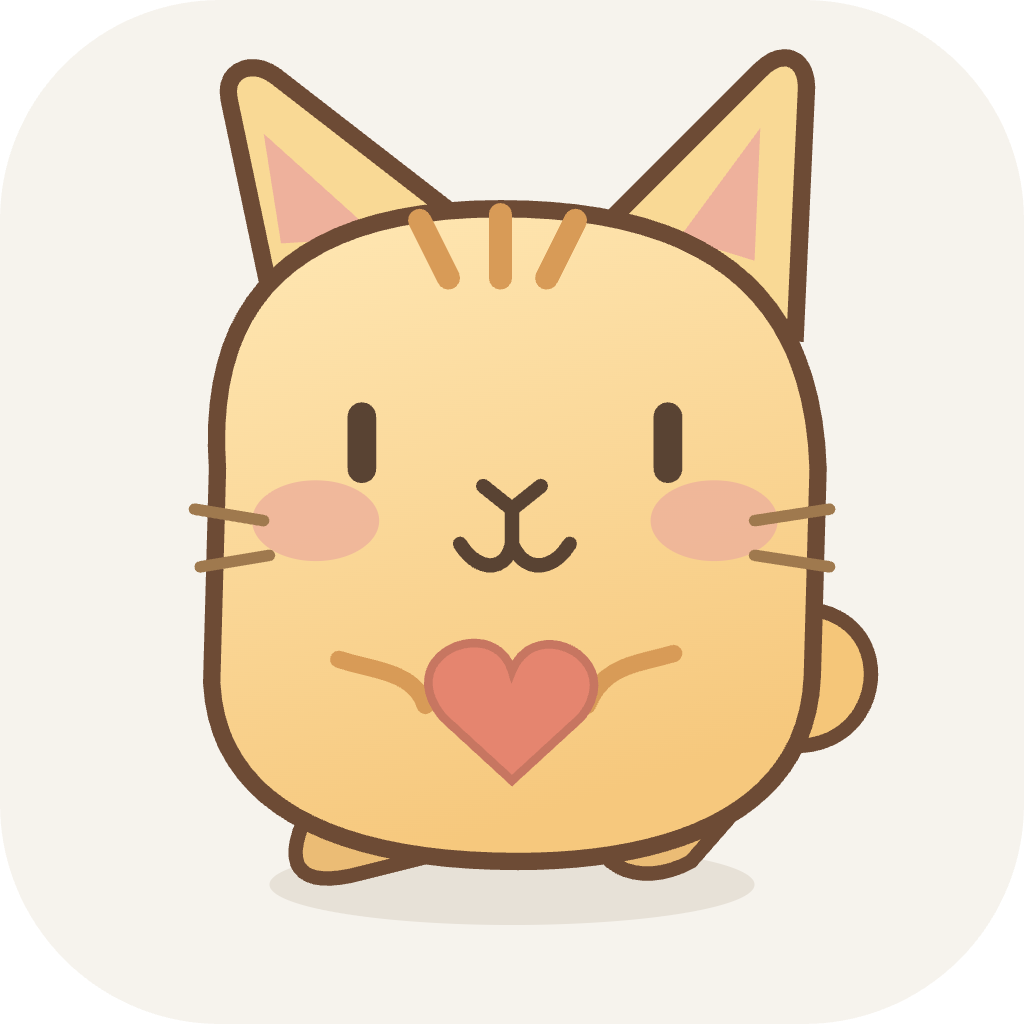
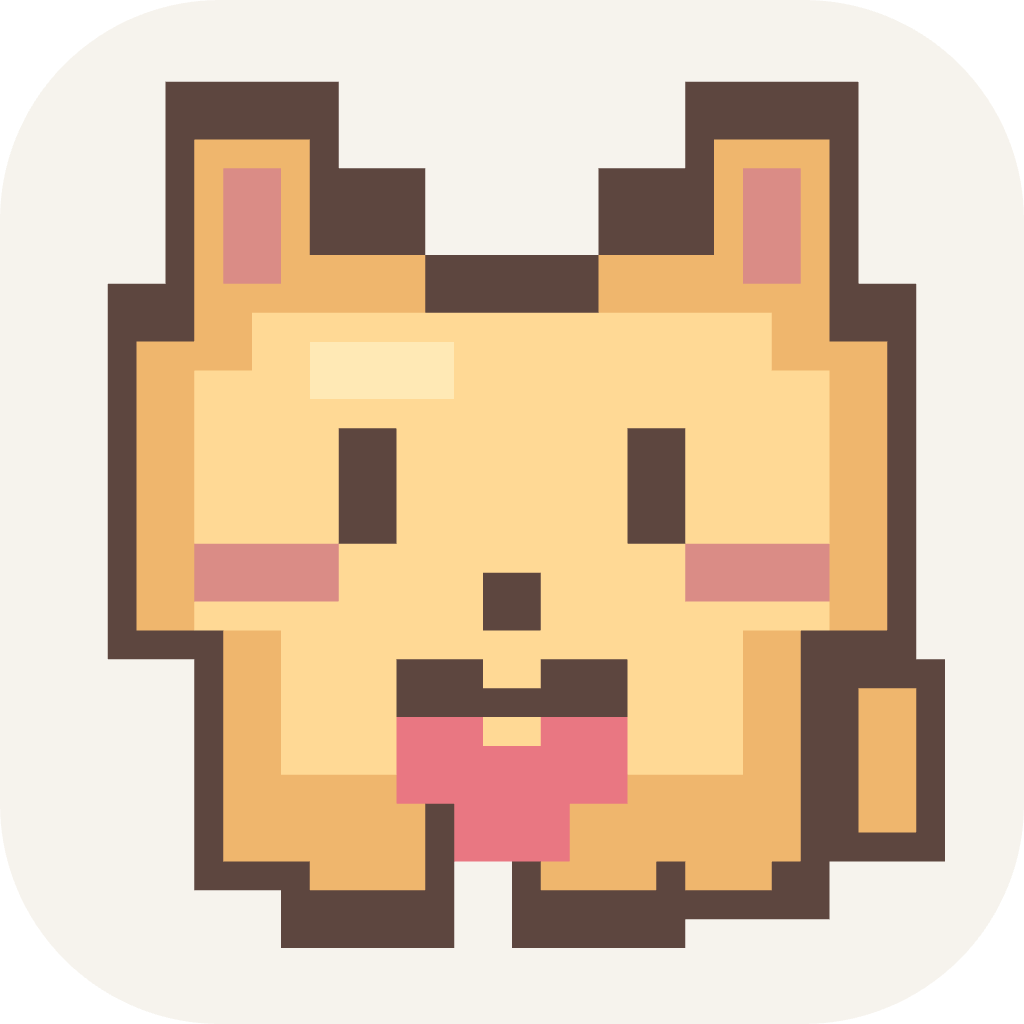
Add small customizable pixel pets and frameless Toss

diff --git a/ui/style.css b/ui/style.css
@@ -1,7 +1,9 @@
 :root{font-family:-apple-system,BlinkMacSystemFont,"PingFang SC",sans-serif;color:#353b35;font-size:14px;color-scheme:light;--green:#445d4a;--muted:#84867b;--line:#e4e3d9;--paper:#f6f3ed}
 *{box-sizing:border-box}body{margin:0}button,input,textarea{font:inherit}button{cursor:pointer}button:disabled{opacity:.5;cursor:wait}button:focus-visible,a:focus-visible,input:focus-visible,textarea:focus-visible,label:focus-within{outline:2px solid #8d9e78;outline-offset:3px}[hidden]{display:none!important}.app-page{background:var(--paper)}.titlebar{height:63px;padding:28px 28px 0 85px;display:flex;justify-content:space-between;-webkit-app-region:drag}.brand{font-size:17px;font-weight:750;letter-spacing:-.5px}.edition{font-size:9px;letter-spacing:1.8px;color:var(--muted);padding-top:5px}main{padding:15px 30px 20px}.hero{display:flex;position:relative;min-height:205px;align-items:center;justify-content:space-between}.eyebrow{font-size:11px;letter-spacing:2px;color:#8c947f;margin:0 0 16px}h1{font-family:"Songti SC",Georgia,serif;font-size:35px;font-weight:500;line-height:1.22;letter-spacing:-1px;margin:0 0 16px}.subline{font-size:11px;color:var(--muted);line-height:1.8;max-width:250px;margin:0}.hero-pet{width:146px;position:absolute;right:-4px;top:22px;transform:rotate(7deg);filter:drop-shadow(0 12px 12px #decfb140)}.connection{display:flex;align-items:center;gap:8px;border-top:1px solid var(--line);border-bottom:1px solid var(--line);padding:13px 0;color:#72796a;font-size:12px;margin:12px 0 22px}.dot{height:7px;width:7px;border-radius:50%;background:#bcbcad}.dot.online{background:#79a36b;box-shadow:0 0 0 4px #7caa6b15}.dot.connecting{background:#d9af69}.connection button{margin-left:auto}.field-label{font-size:12px;display:block;margin:0 0 9px;font-weight:600}input,textarea{width:100%;border:1px solid var(--line);background:#fffefa;border-radius:11px;padding:13px;color:#353b35;resize:none;line-height:1.6}input::placeholder,textarea::placeholder{color:#acae9f;font-size:12px}.setup-actions{display:flex;gap:9px;margin-top:15px}.primary,.secondary{border:0;border-radius:10px;padding:12px 17px;font-size:12px;font-weight:600;display:inline-flex;justify-content:space-between;gap:22px;align-items:center}.primary{color:#fafaf2;background:var(--green)}.primary:hover{background:#344b39}.secondary{background:#e9eadf;color:#5c6559}.setup-actions .primary{flex:1}.howto{display:flex;justify-content:space-between;font-size:10px;color:#93958a;margin-top:30px;padding:20px 0;border-top:1px dashed var(--line)}#join-form{margin-top:20px}#join-form .primary{width:100%;margin-top:10px;justify-content:center}.fineprint{color:#92958b;font-size:10px;line-height:1.7;margin:12px 0 0}.waiting p:not(.fineprint):not(.field-label){font-size:12px;color:#7d8476;line-height:1.8}#invite-code{font:11px/1.6 ui-monospace,monospace;background:#eeeee4;overflow-wrap:anywhere}.waiting .primary{margin-top:12px;width:100%;justify-content:center}.conversation-heading{display:flex;justify-content:space-between;font-size:12px;font-weight:600;margin-top:-6px;margin-bottom:12px}.text-button{border:0;background:none;color:#92958b;padding:0;font-size:10px}.text-button:hover{color:#445d4a}.history{height:160px;overflow:auto;display:flex;flex-direction:column;gap:14px;padding:5px 2px 14px}.empty-chat{text-align:center;color:#a4a799;margin:auto;font-size:11px;line-height:1.9}.empty-chat>span{font-size:25px;color:#adba98}.chat-item{width:85%;align-self:flex-start}.chat-item.outgoing{align-self:flex-end}.message-meta{font-size:9px;color:#92958b;margin:0 5px 5px;display:flex;justify-content:space-between;gap:8px}.message-card{padding:11px 13px;background:#fffdf8;border:1px solid #e9e7dd;border-radius:12px 12px 12px 3px;font-size:12px;line-height:1.6;overflow-wrap:anywhere}.outgoing .message-card{background:#e9eedf;border-color:#e0e7d8;border-radius:12px 12px 3px 12px}.message-text{white-space:pre-wrap;margin:0}.message-text a{color:#55775a;text-underline-offset:3px}.message-image{display:block;max-width:100%;max-height:160px;border-radius:8px;object-fit:contain;margin-top:8px}.message-media{width:100%;max-height:170px;margin-top:8px}.file-card{display:flex;align-items:center;gap:7px;padding:9px 0 0;max-width:100%}.file-card span{overflow:hidden;text-overflow:ellipsis;white-space:nowrap;flex:1}.file-card button{border:0;background:#e5e7dc;color:#5e6e55;border-radius:6px;padding:6px 9px;font-size:10px}.compose-form{border:1px solid #dfdfd1;border-radius:13px;background:#fffefa;margin-top:14px;overflow:hidden}.compose-form textarea{border:0;background:none;padding:13px 14px;display:block;font-size:12px}.compose-form textarea:focus-visible{outline:none}.compose-form:focus-within{border-color:#8d9e78}.compose-footer{display:flex;gap:10px;padding:0 11px 10px;align-items:center}.attach-button{font-size:11px;cursor:pointer;color:#78866c}.shortcut-hint{font-size:9px;color:#acafa1;margin-left:auto}.compose-footer .primary{padding:8px 13px;border-radius:8px;gap:8px}.attachment-preview{display:flex;gap:10px;align-items:center;padding:10px 14px 0;color:#7c816f;font-size:10px}.attachment-preview img{width:40px;height:40px;object-fit:cover;border-radius:6px}.attachment-preview span{overflow:hidden;text-overflow:ellipsis;white-space:nowrap;flex:1}.attachment-preview button{border:0;background:none;color:#989b8b;font-size:17px}.notice{background:#f0e5d6;color:#946d47;padding:11px;border-radius:9px;font-size:11px;line-height:1.6}footer{display:flex;justify-content:space-between;margin-top:27px;color:#a1a597;font-size:9px;letter-spacing:.4px}.tiny-heart{color:#c19476}.sr-only{position:absolute;width:1px;height:1px;padding:0;margin:-1px;overflow:hidden;clip:rect(0,0,0,0);white-space:nowrap;border:0}.dropping .compose-form{outline:2px dashed #8d9e78;outline-offset:5px}
 /* Desktop companion */
-.pet-page,.bubble-page{background:transparent;overflow:hidden}.pet-shell{width:160px;height:170px;position:relative}.pet-drag{position:absolute;inset:4px 25px auto;height:32px;-webkit-app-region:drag;z-index:2;cursor:grab}.pet-button{border:0;background:none;padding:0;width:160px;height:170px;-webkit-app-region:no-drag}.pet-button img{width:160px;height:170px;animation:breathe 3.4s ease-in-out infinite;transform-origin:50% 90%}.pet-button:hover img{animation:happy .5s ease-in-out infinite}.pet-name{position:absolute;bottom:0;left:0;right:0;text-align:center;color:#786b58;font-size:10px;pointer-events:none;text-shadow:0 1px 3px #fff}.unread-badge{position:absolute;top:26px;right:16px;background:#df826b;color:#fff;border-radius:12px;min-width:20px;height:20px;line-height:20px;text-align:center;font-size:10px;box-shadow:0 2px 5px #795b3e22;pointer-events:none}.pet-button.new-message img{animation:happy .6s ease-in-out 3}@keyframes breathe{0%,100%{transform:translateY(0) scale(1,1)}50%{transform:translateY(-3px) scale(1.015,.985)}}@keyframes happy{0%,100%{transform:rotate(-4deg) translateY(0)}50%{transform:rotate(4deg) translateY(-6px)}}@media(prefers-reduced-motion:reduce){.pet-button img,.pet-button:hover img,.pet-button.new-message img{animation:none}}
+.pet-page,.bubble-page{background:transparent;overflow:hidden}.pet-shell{width:96px;height:108px;position:relative}.pet-drag{position:absolute;inset:4px 25px auto;height:32px;-webkit-app-region:drag;z-index:2;cursor:grab}.pet-button{border:0;background:none;padding:0;width:96px;height:108px;-webkit-app-region:no-drag}.pet-button img{width:96px;height:102px;object-fit:contain;image-rendering:pixelated;animation:breathe 3.4s ease-in-out infinite;transform-origin:50% 90%}.pet-button:hover img{animation:happy .5s ease-in-out infinite}.pet-name{position:absolute;bottom:0;left:0;right:0;text-align:center;color:#786b58;font-size:8px;pointer-events:none;text-shadow:0 1px 3px #fff}.unread-badge{position:absolute;top:14px;right:3px;background:#df826b;color:#fff;border-radius:12px;min-width:20px;height:20px;line-height:20px;text-align:center;font-size:10px;box-shadow:0 2px 5px #795b3e22;pointer-events:none}.pet-button.new-message img{animation:happy .6s ease-in-out 3}@keyframes breathe{0%,100%{transform:translateY(0) scale(1,1)}50%{transform:translateY(-3px) scale(1.015,.985)}}@keyframes happy{0%,100%{transform:rotate(-4deg) translateY(0)}50%{transform:rotate(4deg) translateY(-6px)}}@media(prefers-reduced-motion:reduce){.pet-button img,.pet-button:hover img,.pet-button.new-message img{animation:none}}
 .bubble-page{padding:12px 12px 24px}.speech{background:#fffef8;border:1px solid #e8e2d5;border-radius:18px;box-shadow:0 8px 22px #5c473c18;position:relative;padding:18px;max-height:316px;display:flex;flex-direction:column}.speech:after{content:"";position:absolute;bottom:-8px;right:52px;width:14px;height:14px;background:#fffef8;transform:rotate(45deg);border-right:1px solid #e8e2d5;border-bottom:1px solid #e8e2d5}.speech-header{display:flex;align-items:center;gap:6px;font-size:10px;color:#8c9482;margin-bottom:12px}.speech-header strong{color:#5b6851;font-weight:600}.speech-header button{margin-left:auto;font-size:18px}.speech-content{overflow:auto;font-size:13px;line-height:1.7;overflow-wrap:anywhere;min-height:40px}.speech-content .message-image{max-height:170px}.speech-footer{display:flex;justify-content:space-between;align-items:center;border-top:1px solid #ece9df;margin-top:12px;padding-top:11px}.speech-footer span{font-size:9px;color:#a4a89a}.speech-footer button{background:#e9eedf;border:0;border-radius:7px;padding:7px 13px;color:#5f7353;font-size:10px}
 /* Confirmed desktop throws */
-.pet-button{touch-action:none;user-select:none;cursor:grab}.pet-button.dragging{cursor:grabbing}.pet-button.dragging img{animation:none}.throw-controls{display:flex;align-items:center;gap:6px;padding:0 14px 12px;flex-wrap:wrap}.throw-controls .text-button{color:#68805b}.throw-controls span{font-size:9px;color:#a4a89a}.throw-location{font-size:10px;color:#879377;margin:0 0 5px}.throw-status{font-size:10px;color:#a0957f;margin:0 0 8px}.throw-actions{display:flex;gap:8px;margin:10px 0}.throw-actions button{font-size:10px;padding:8px 11px}.target-page{height:100vh;background:#405b4e25;cursor:crosshair;border:2px dashed #90a87580;overflow:hidden}.target-help{position:absolute;left:50%;top:50%;transform:translate(-50%,-50%);text-align:center;background:#fffef8ed;border:1px solid #e7e4d8;border-radius:18px;padding:24px;box-shadow:0 8px 35px #33412d20;cursor:crosshair}.target-help strong{font-family:'Songti SC',serif;font-size:26px;font-weight:500}.target-help p{font-size:12px;line-height:1.8;color:#8c9481}#crosshair{position:absolute;pointer-events:none;font-size:32px;color:#526d46;transform:translate(-50%,-50%)}.object-page{padding:15px;background:transparent;overflow:hidden}.desktop-object{background:#fffef8;border:1px solid #e3ddce;border-radius:16px;padding:15px;box-shadow:0 6px 15px #604e3718;max-height:390px;overflow:auto;animation:toss-in .65s cubic-bezier(.2,.8,.2,1);transform-origin:50% 80%}.object-header{display:flex;align-items:center;gap:8px;color:#919983;font-size:10px;margin-bottom:10px}.object-header button{font-size:20px;margin-left:auto}.desktop-object .message-text{font-size:14px;line-height:1.7;overflow-wrap:anywhere}.desktop-object .message-image{max-height:270px;width:100%;object-fit:contain}.desktop-object .file-card{font-size:10px}@keyframes toss-in{0%{opacity:0;transform:translate(-80px,-90px) rotate(-22deg) scale(.35)}65%{opacity:1;transform:translate(0,8px) rotate(5deg) scale(1.08)}100%{transform:translate(0,0) rotate(0) scale(1)}}@media(prefers-reduced-motion:reduce){.desktop-object{animation:none}}
+.pet-button{touch-action:none;user-select:none;cursor:grab}.pet-button.dragging{cursor:grabbing}.pet-button.dragging img{animation:none}.throw-controls{display:flex;align-items:center;gap:6px;padding:0 14px 12px;flex-wrap:wrap}.throw-controls .text-button{color:#68805b}.throw-controls span{font-size:9px;color:#a4a89a}.throw-location{font-size:10px;color:#879377;margin:0 0 5px}.throw-status{font-size:10px;color:#a0957f;margin:0 0 8px}.throw-actions{display:flex;gap:8px;margin:10px 0}.throw-actions button{font-size:10px;padding:8px 11px}.target-page{height:100vh;background:#405b4e25;cursor:crosshair;border:2px dashed #90a87580;overflow:hidden}.target-help{position:absolute;left:50%;top:50%;transform:translate(-50%,-50%);text-align:center;background:#fffef8ed;border:1px solid #e7e4d8;border-radius:18px;padding:24px;box-shadow:0 8px 35px #33412d20;cursor:crosshair}.target-help strong{font-family:'Songti SC',serif;font-size:26px;font-weight:500}.target-help p{font-size:12px;line-height:1.8;color:#8c9481}#crosshair{position:absolute;pointer-events:none;font-size:32px;color:#526d46;transform:translate(-50%,-50%)}.object-page{padding:15px;background:transparent;overflow:hidden}.desktop-object{position:relative;background:transparent;border:0;border-radius:0;padding:0;box-shadow:none;max-height:390px;overflow:auto;scrollbar-width:none;animation:toss-in .65s cubic-bezier(.2,.8,.2,1);transform-origin:50% 80%}.desktop-object::-webkit-scrollbar{display:none}#object-content{display:flex;flex-direction:column;align-items:center;gap:8px}#close-object{position:absolute;right:0;top:0;z-index:1;font-size:20px;opacity:0;pointer-events:none}.desktop-object:hover #close-object,.desktop-object:focus-within #close-object{opacity:1;pointer-events:auto}.desktop-object .message-text{font-size:14px;line-height:1.7;overflow-wrap:anywhere;max-width:100%}.desktop-object .message-image{max-height:270px;width:auto;max-width:100%;border-radius:0;margin:0;object-fit:contain}@keyframes toss-in{0%{opacity:0;transform:translate(-80px,-90px) rotate(-22deg) scale(.35)}65%{opacity:1;transform:translate(0,8px) rotate(5deg) scale(1.08)}100%{transform:translate(0,0) rotate(0) scale(1)}}@media(prefers-reduced-motion:reduce){.desktop-object{animation:none}}
+
+.pet-settings{display:flex;align-items:center;gap:10px;font-size:11px;color:#84867b;margin:-12px 0 14px}.pet-settings select{font:inherit;color:#5b6851;background:transparent;border:1px solid #e4e3d9;border-radius:7px;padding:4px 8px}.hero-pet{image-rendering:pixelated}

diff --git a/ui/app.js b/ui/app.js
@@ -3,6 +3,13 @@ let attachment = null, placement = null, currentState = null, historyKey = '', p
 function notice(text = '') { $('notice').textContent = text; $('notice').hidden = !text; }
 function render(state) {
   currentState = state;
+  if (state.pet) {
+    $('pet-choice').value = state.pet.kind;
+    const image = document.querySelector('.hero-pet');
+    if (image.getAttribute('src') !== state.pet.src) image.src = state.pet.src;
+    image.alt = state.pet.name;
+    image.style.imageRendering = state.pet.pixel ? 'pixelated' : 'auto';
+  }
   const connected = state.status.relayConnected > 0;
   const paired = state.status.paired || !!state.status.peerPubkey;
   $('setup').hidden = state.configured;
@@ -44,10 +51,16 @@ $('copy').addEventListener('click', async () => { try { await call('copy-invite'
 $('mute').addEventListener('click', () => call('mute').catch(showError));
 $('reset').addEventListener('click', () => call('reset').catch(showError));
 $('cancel-invite').addEventListener('click', () => call('reset').catch(showError));
+$('pet-choice').addEventListener('change', async () => {
+  $('pet-choice').disabled = true; notice();
+  try { render(await call('set-pet', $('pet-choice').value)); }
+  catch (error) { showError(error); $('pet-choice').value = currentState.pet?.kind || 'cat'; }
+  finally { $('pet-choice').disabled = false; }
+});
 function showTarget() {
   $('target-label').textContent = placement ? `屏幕 ${placement.display} · 左 ${Math.round(placement.x * 100)}% / 上 ${Math.round(placement.y * 100)}%` : '';
   $('clear-target').hidden = !placement;
-  $('send').textContent = placement ? '发甩东西请求 ↗' : '发送 ↗';
+  $('send').textContent = placement ? 'Toss' : '发送 ↗';
 }
 $('pick-target').addEventListener('click', async () => {
   notice();
@@ -73,17 +86,11 @@ async function attach(file) {
   preparing = true; notice();
   try {
     if (file.size > 5 * 1024 * 1024) throw new Error('单个文件最大 5 MB，请选择较小的文件。');
-    let data = await new Promise((resolve, reject) => { const reader = new FileReader(); reader.onload = () => resolve(reader.result); reader.onerror = () => reject(new Error('文件读取失败。')); reader.readAsDataURL(file); });
-    let mime = file.type || 'application/octet-stream', name = file.name || '粘贴图片.png';
+    const data = await new Promise((resolve, reject) => { const reader = new FileReader(); reader.onload = () => resolve(reader.result); reader.onerror = () => reject(new Error('文件读取失败。')); reader.readAsDataURL(file); });
+    const mime = file.type || 'application/octet-stream', name = file.name || '粘贴图片.png';
     if (['image/png', 'image/jpeg', 'image/webp'].includes(mime)) {
       const image = new Image(); image.src = data; await image.decode();
       if (image.width * image.height > 64_000_000) throw new Error('图片尺寸过大，请先缩小。');
-      if (file.size > 200 * 1024 || Math.max(image.width, image.height) > 1280) {
-        const scale = Math.min(1, 1280 / Math.max(image.width, image.height));
-        const canvas = document.createElement('canvas'); canvas.width = Math.max(1, Math.round(image.width * scale)); canvas.height = Math.max(1, Math.round(image.height * scale));
-        const ctx = canvas.getContext('2d'); ctx.fillStyle = '#fff'; ctx.fillRect(0, 0, canvas.width, canvas.height); ctx.drawImage(image, 0, 0, canvas.width, canvas.height);
-        data = canvas.toDataURL('image/jpeg', .84); mime = 'image/jpeg'; name = name.replace(/\.[^.]+$/, '') + '.jpg';
-      }
     }
     attachment = { name, mime, data: data.slice(data.indexOf(',') + 1) }; showAttachment();
   } catch (error) { showError(error); }

diff --git a/ui/index.html b/ui/index.html
@@ -7,6 +7,7 @@
   <main>
     <section class="hero"><div><p class="eyebrow">给桌面一点陪伴</p><h1>把话交给<br>你的小伙伴。</h1><p class="subline">你发出的每一句话，都会来到 TA 的桌面。</p></div><img class="hero-pet" src="pet.svg" alt="抱着爱心的桌面小猫"></section>
     <div id="connection" class="connection"><span id="status-dot" class="dot"></span><span id="status-text">先认识一下彼此</span><button id="mute" class="text-button" hidden>暂停弹出</button></div>
+    <div class="pet-settings"><label for="pet-choice">桌宠</label><select id="pet-choice"><option value="cat">像素小猫</option><option value="bunny">像素小兔</option><option value="custom">选择自己的图片…</option></select></div>
     <p id="notice" class="notice" role="status" hidden></p>
     <section id="setup" class="setup">
       <label class="field-label" for="name">你的昵称</label><input id="name" maxlength="30" placeholder="让 TA 知道是谁在想他" autocomplete="nickname">
@@ -18,7 +19,7 @@
     <section id="conversation" class="conversation" hidden>
       <div class="conversation-heading"><span id="friend-label">小伙伴</span><button id="reset" class="text-button">断开配对</button></div>
       <div id="history" class="history" aria-live="polite"><div class="empty-chat"><span>♡</span><p>小伙伴已就位。<br>发一句「嘿，我在这里」吧。</p></div></div>
-      <form id="compose-form" class="compose-form"><div id="attachment-preview" class="attachment-preview" hidden></div><label class="sr-only" for="message">发送消息</label><textarea id="message" maxlength="4000" rows="3" placeholder="说点什么，或粘贴一个链接…"></textarea><div class="throw-controls"><button id="pick-target" class="text-button" type="button">↗ 甩到 TA 桌面 · 选落点</button><span id="target-label"></span><button id="clear-target" class="text-button" type="button" aria-label="取消桌面落点" hidden>×</button></div><div class="compose-footer"><label class="attach-button" for="file-input">＋ 图片 / 文件</label><input type="file" id="file-input" class="sr-only"><span class="shortcut-hint">⌘ ↵ 发送</span><button id="send" class="primary" type="submit">发送 ↗</button></div></form>
+      <form id="compose-form" class="compose-form"><div id="attachment-preview" class="attachment-preview" hidden></div><label class="sr-only" for="message">发送消息</label><textarea id="message" maxlength="4000" rows="3" placeholder="说点什么，或粘贴一个链接…"></textarea><div class="throw-controls"><button id="pick-target" class="text-button" type="button" title="选择对方桌面的落点">Toss</button><span id="target-label"></span><button id="clear-target" class="text-button" type="button" aria-label="取消桌面落点" hidden>×</button></div><div class="compose-footer"><label class="attach-button" for="file-input">＋ 图片 / 文件</label><input type="file" id="file-input" class="sr-only"><span class="shortcut-hint">⌘ ↵ 发送</span><button id="send" class="primary" type="submit">发送 ↗</button></div></form>
       <p class="fineprint">图片支持粘贴与拖入 · 单个文件 ≤ 5 MB · 对方在线时送达</p>
     </section>
     <footer><span>消息端到端加密</span><span>只有你们两个 <span class="tiny-heart">♡</span></span></footer>

diff --git a/ui/pet.html b/ui/pet.html
@@ -1,2 +1,2 @@
-<!doctype html><html lang="zh-CN"><head><meta charset="UTF-8"><meta http-equiv="Content-Security-Policy" content="default-src 'none'; script-src 'self'; style-src 'self'; img-src 'self'; base-uri 'none'">
-<title>PetLink 小伙伴</title><link rel="stylesheet" href="style.css"></head><body class="pet-page"><div class="pet-shell"><button id="pet" class="pet-button" title="点一下聊天，拖住我移动" aria-label="点击聊天或拖动宠物"><img draggable="false" src="pet.svg" alt="抱爱心的小猫"></button><span id="badge" class="unread-badge" hidden></span><span id="pet-name" class="pet-name">小伙伴在这里</span></div><script src="common.js"></script><script src="pet.js"></script></body></html>
+<!doctype html><html lang="zh-CN"><head><meta charset="UTF-8"><meta http-equiv="Content-Security-Policy" content="default-src 'none'; script-src 'self'; style-src 'self'; img-src 'self' data:; base-uri 'none'">
+<title>PetLink 小伙伴</title><link rel="stylesheet" href="style.css"></head><body class="pet-page"><div class="pet-shell"><button id="pet" class="pet-button" title="点一下聊天，拖住我移动" aria-label="点击聊天或拖动宠物"><img draggable="false" src="pet.svg" alt="像素小猫"></button><span id="badge" class="unread-badge" hidden></span><span id="pet-name" class="pet-name">小伙伴在这里</span></div><script src="common.js"></script><script src="pet.js"></script></body></html>

diff --git a/ui/object.html b/ui/object.html
@@ -1,1 +1,1 @@
-<!doctype html><html lang="zh-CN"><head><meta charset="UTF-8"><meta http-equiv="Content-Security-Policy" content="default-src 'none'; script-src 'self'; style-src 'self' 'unsafe-inline'; img-src 'self' data:; base-uri 'none'"><title>桌面物件</title><link rel="stylesheet" href="style.css"></head><body class="object-page"><article class="desktop-object"><div class="object-header"><span id="object-sender"></span><button id="close-object" class="text-button" aria-label="关闭桌面物件">×</button></div><div id="object-content"></div><p id="notice" class="notice" role="status" hidden></p></article><script src="common.js"></script><script src="object.js"></script></body></html>
+<!doctype html><html lang="zh-CN"><head><meta charset="UTF-8"><meta http-equiv="Content-Security-Policy" content="default-src 'none'; script-src 'self'; style-src 'self' 'unsafe-inline'; img-src 'self' data:; base-uri 'none'"><title>桌面物件</title><link rel="stylesheet" href="style.css"></head><body class="object-page"><article class="desktop-object"><button id="close-object" class="text-button" aria-label="关闭桌面物件">×</button><div id="object-content"></div><p id="notice" class="notice" role="status" hidden></p></article><script src="common.js"></script><script src="object.js"></script></body></html>

diff --git a/ui/object.js b/ui/object.js
@@ -1,6 +1,14 @@
 call('get-object').then((message) => {
-  document.getElementById('object-sender').textContent = `${message.fromName}甩来的小东西`;
-  renderContent(document.getElementById('object-content'), message);
+  const content = document.getElementById('object-content');
+  if (message.text) {
+    const text = document.createElement('p'); text.className = 'message-text';
+    text.textContent = message.text; content.append(text);
+  }
+  if (message.attachment) {
+    const image = document.createElement('img'); image.className = 'message-image';
+    image.src = `data:${message.attachment.mime};base64,${message.attachment.data}`;
+    image.alt = message.attachment.name; content.append(image);
+  }
 }).catch(showError);
 document.getElementById('close-object').addEventListener('click', () => call('close-object').catch(showError));
 document.addEventListener('keydown', (event) => { if (event.key === 'Escape') call('close-object').catch(showError); });

diff --git a/ui/pet.js b/ui/pet.js
@@ -1,6 +1,11 @@
 let unreadCount = 0;
 function render(state) {
   const pet = document.getElementById('pet');
+  const image = document.querySelector('#pet img');
+  if (state.pet) {
+    if (image.getAttribute('src') !== state.pet.src) image.src = state.pet.src;
+    image.alt = state.pet.name; image.style.imageRendering = state.pet.pixel ? 'pixelated' : 'auto';
+  }
   const badge = document.getElementById('badge');
   badge.hidden = !state.unread; badge.textContent = state.unread > 9 ? '9+' : String(state.unread);
   document.getElementById('pet-name').textContent = state.unread ? 'TA 有话想对你说' : state.muted ? '安静陪着你' : state.status.peerOnline ? `${state.status.peerName || '小伙伴'}在这里` : '小伙伴在这里';

diff --git a/ui/common.js b/ui/common.js
@@ -5,7 +5,7 @@ function showError(error) {
 }
 function renderContent(container, message) {
   container.replaceChildren();
-  if (message.placement && container.id !== 'object-content') {
+  if (message.placement) {
     const location = document.createElement('p'); location.className = 'throw-location';
     location.textContent = `甩东西请求 · 屏幕 ${message.placement.display} · 左 ${Math.round(message.placement.x * 100)}% / 上 ${Math.round(message.placement.y * 100)}%`;
     container.append(location);

diff --git a/README.md b/README.md
@@ -2,34 +2,47 @@
 
 把文字、链接、图片和文件送到朋友桌面的小猫气泡里。双方安装后，交换一次邀请码即可配对；不需要 Discord、账号或自建服务器。
 
+## 下载
+
+[下载最新版](https://github.com/Zy-zz/petlink-mac/releases/latest)
+
+当前版本 **0.3.0**：
+
+- [Mac 安装包 DMG](https://github.com/Zy-zz/petlink-mac/releases/download/v0.3.0/PetLink-0.3.0-mac-arm64.dmg)
+- [Mac 应用 ZIP](https://github.com/Zy-zz/petlink-mac/releases/download/v0.3.0/PetLink-0.3.0-mac-arm64.zip)
+- [源码 ZIP](https://github.com/Zy-zz/petlink-mac/releases/download/v0.3.0/PetLink-0.3.0-source.zip)
+- [SHA-256 校验文件](https://github.com/Zy-zz/petlink-mac/releases/download/v0.3.0/PetLink-0.3.0-SHA256SUMS.txt)
+
 ## 安装与使用
 
 当前安装包适用于 **Apple Silicon Mac，macOS 13 或更高版本**。
 
-1. 打开 `dist/PetLink-0.2.0-mac-arm64.dmg`，把 PetLink 拖入 Applications。甩东西功能需要双方都更新到 0.2.0。
+1. 从上方下载 DMG，打开后把 PetLink 拖入 Applications（应用程序）。升级时先退出旧版，再用新版替换原应用；配对和聊天记录会保留。建议双方都安装 0.3.0，Toss 功能最低需要 0.2.0。
 2. 双方运行 PetLink。一方填写昵称，点击「邀请一个小伙伴」，复制邀请码发给对方。
 3. 对方填写昵称，选择「我有邀请码」，粘贴后连接。邀请码只应交给想配对的人；第一位加入者会成为固定小伙伴。
 4. 显示「小伙伴在线」后，发送文字、HTTP/HTTPS 链接或附件。对方的小猫旁直接出现气泡，点击「回一句」回复。
 
 安装包使用本地 ad-hoc 签名，未用 Apple Developer ID 签名或公证。从网络下载时，macOS 可能要求在「系统设置 → 隐私与安全」选择「仍要打开」。无需辅助功能、屏幕录制或远程控制权限。
 
-拖住小猫身体任意位置即可移动，松手保存位置；点一下小猫或菜单栏的 🐾 打开聊天。关闭聊天窗口会留在后台；从菜单栏选择「退出」才完全退出。聊天页的「暂停弹出」只暂停气泡，收到的内容仍保留在本机记录。
+桌宠默认是 96 × 108 的像素小猫，比早期版本更小。聊天窗口的「桌宠」下拉框可切换像素小猫、像素小兔，或选择自己的图片（PNG/JPEG，最大 2 MiB，推荐透明背景 PNG）。自定义图片复制到本机配置，原文件移动或删除不影响桌宠；选择会在重启后保留。
+
+拖住桌宠身体任意位置即可移动，松手保存位置；点一下小猫或菜单栏的 🐾 打开聊天。关闭聊天窗口会留在后台；从菜单栏选择「退出」才完全退出。聊天页的「暂停弹出」只暂停气泡，收到的内容仍保留在本机记录。
 
 ## 甩东西到对方桌面
 
-1. 写文字或添加 PNG/JPEG/WebP/GIF 图片，点击「甩到 TA 桌面 · 选落点」。
+1. 写文字或添加 PNG/JPEG/WebP/GIF 图片，点击「Toss」选择落点。
 2. 在你自己的屏幕点一下。落点按对应屏幕的相对位置映射到 TA 的桌面；如果 TA 没有那块屏幕，使用主屏幕。边缘会自动调整以保持整个物件可见。
-3. 点击「发甩东西请求」。TA 的宠物气泡和聊天记录会显示请求、内容预览、落点以及「确认接住 / 拒绝」按钮。
+3. 点击发送区的「Toss」。TA 的宠物气泡和聊天记录会显示请求、内容预览、落点以及「确认接住 / 拒绝」按钮。
 4. **只有 TA 本机点击确认后**，内容才会在落点播放甩入动画。拒绝不会创建桌面物件；发送方收到确认或拒绝反馈。
 
-请求 5 分钟内有效，同一个请求只能处理一次。已确认的物件可点 × 关闭；退出应用后不自动恢复物件。桌面同时最多放 8 个物件。对方离线时仍可以处理已收到的请求，但确认反馈可能暂时无法通知发送方。
+请求 5 分钟内有效，同一个请求只能处理一次。桌面物件只显示原文字和图片，没有卡片背景、边框、发送人或文件名；图片保持原文件及透明背景，按比例缩放显示。鼠标移到物件上才显示 ×，也可按 Esc 关闭。退出应用后不自动恢复物件。桌面同时最多放 8 个物件。对方离线时仍可以处理已收到的请求，但确认反馈可能暂时无法通知发送方。
 
 这些物件是透明置顶显示，不会创建 Finder 文件、改壁纸或移动对方桌面上的文件图标。选落点无需截屏或远程控制权限。
 
 ## 内容与送达
 
 - 文字：最多 4,000 个字符；链接由用户点击后在默认浏览器打开，不自动请求预览。
-- 图片：PNG、JPEG、WebP、GIF；可以选文件、拖入或在输入框粘贴。较大的静态图片会缩到最长边 1,280 像素并转为 JPEG。
+- 图片：PNG、JPEG、WebP、GIF；可以选文件、拖入或在输入框粘贴。保留原文件内容和透明背景，不自动转换成 JPEG；单个文件最多 5 MiB，静态图片最多 6,400 万像素。
 - 其他附件：单个文件最多 **5 MiB**。支持保存任意文件；常见音频、MP4/WebM 可在气泡里手动播放，格式能否播放取决于 Electron 的解码器。
 - 必须双方在线。「已送达」表示收方客户端已经验证并保存消息，然后发回确认；不表示对方已经阅读。断线或超时保留输入内容供重试。
 - 本机保留最近最多 40 条消息，附件编码总量上限 24 MiB；超过时移除最旧消息。此版本没有云端离线收件箱，也不会自动保存全部收到的文件到 Downloads。
@@ -46,6 +59,10 @@
 
 身份密钥、配对信息及本机消息记录保存在 `~/Library/Application Support/PetLink/`，目录权限 0700、文件权限 0600；本机记录未做额外静态加密。「断开配对」会清空当前本机历史并停止接收原房间消息。
 
+## 仓库权限
+
+此仓库公开供浏览、下载和提交反馈，由 [Zy-zz](https://github.com/Zy-zz) 维护。未添加其他协作者，其他人不能直接推送代码、合并 PR 或发布新版本；Issue 和 PR 需要维护者处理。公开仓库仍可被 fork，fork 不会修改这里的代码。
+
 ## 开发和验证
 
 使用 Node 22.22 或更高版本：
@@ -60,7 +77,7 @@ ELECTRON_RUN_AS_NODE=1 node_modules/electron/dist/Electron.app/Contents/MacOS/El
 npm run build:mac
 ```
 
-`npm test` 包含真实 WebSocket 中继、身份固定、双向收发、分片、收方确认、重传去重、篡改拒绝、重连和 5 MiB 文件边界，以及拖动/点击事件区分和桌面坐标映射。`test:ui` 启动两个独立 Mac Electron 进程，通过真正的输入框与按钮完成配对和收发，检查气泡、附件保存、链接、HTML 转义、暂停弹出、重启恢复，以及甩东西的落点选择、确认前不显示、拒绝、确认后图片/文字落点和重复确认拦截。
+`npm test` 包含真实 WebSocket 中继、身份固定、双向收发、分片、收方确认、重传去重、篡改拒绝、重连和 5 MiB 文件边界，以及拖动/点击事件区分和桌面坐标映射。`test:ui` 启动两个独立 Mac Electron 进程，通过真正的输入框与按钮完成配对和收发，检查气泡、附件保存、链接、HTML 转义、暂停弹出、重启恢复，桌宠缩小、内置桌宠切换、自定义图片与重启保持，以及甩东西的落点选择、确认前不显示、拒绝、确认后图片/文字落点和重复确认拦截。
 
 `test/public-relay.cjs` 是主动公网测试，发送随机测试数据，不使用用户的配对信息；结果保存在 `test-output/public-relay-result.json`。`PETLINK_PROFILE` / `PETLINK_RELAYS` / `PETLINK_HIDDEN` 环境变量只用于隔离测试和指定测试中继。
 
